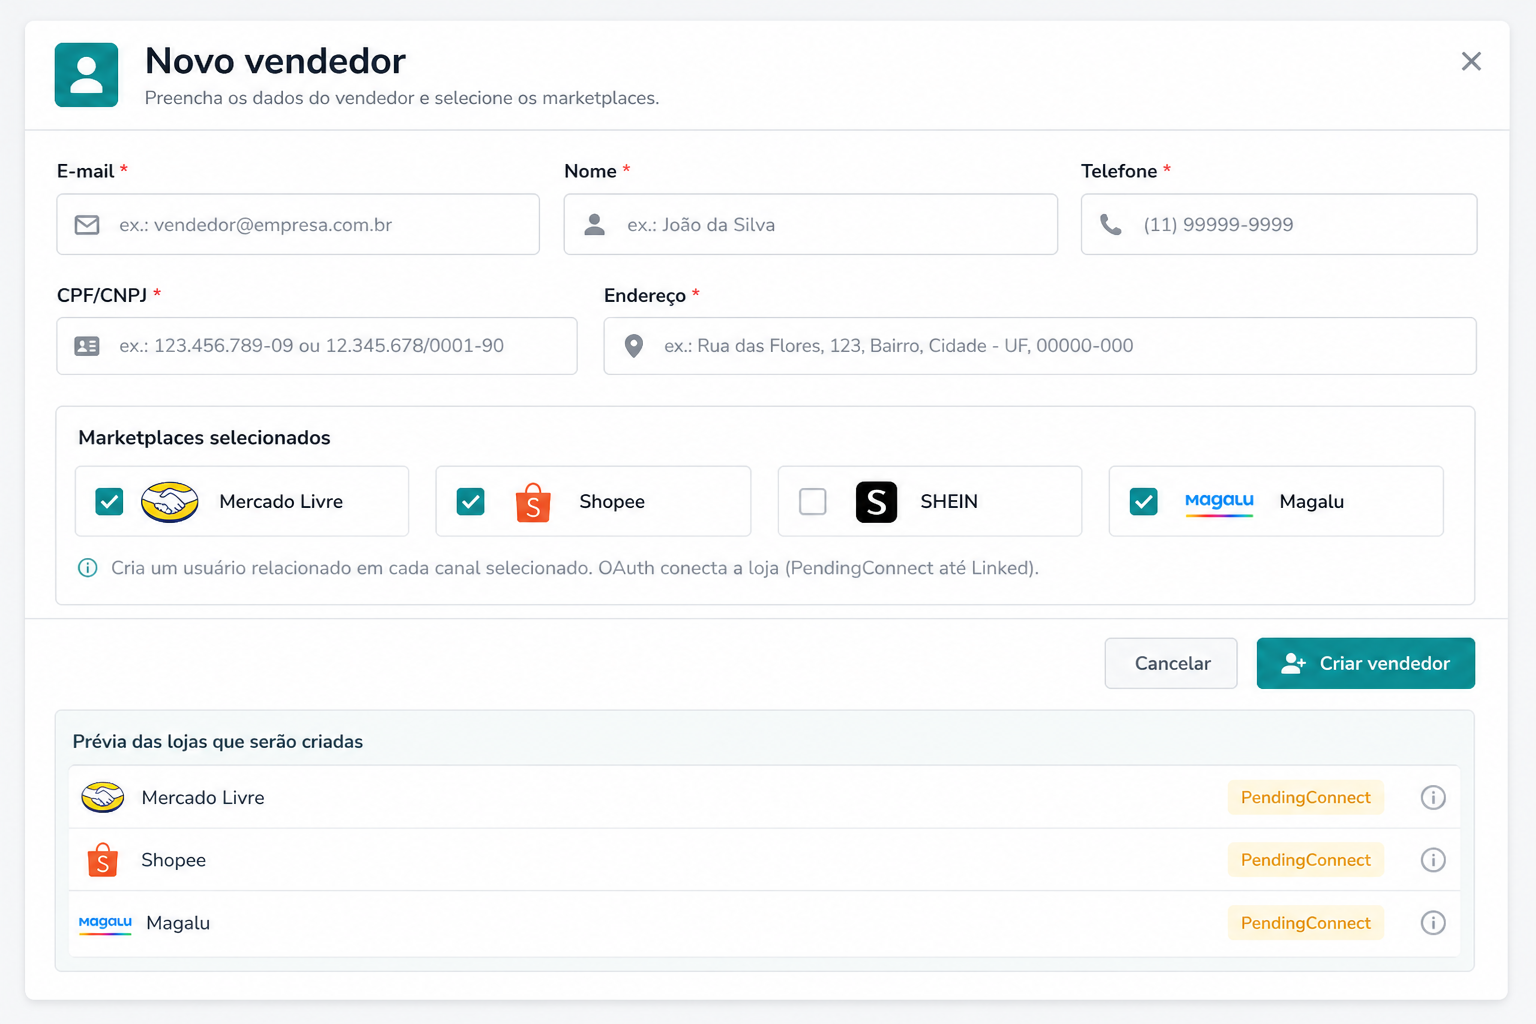
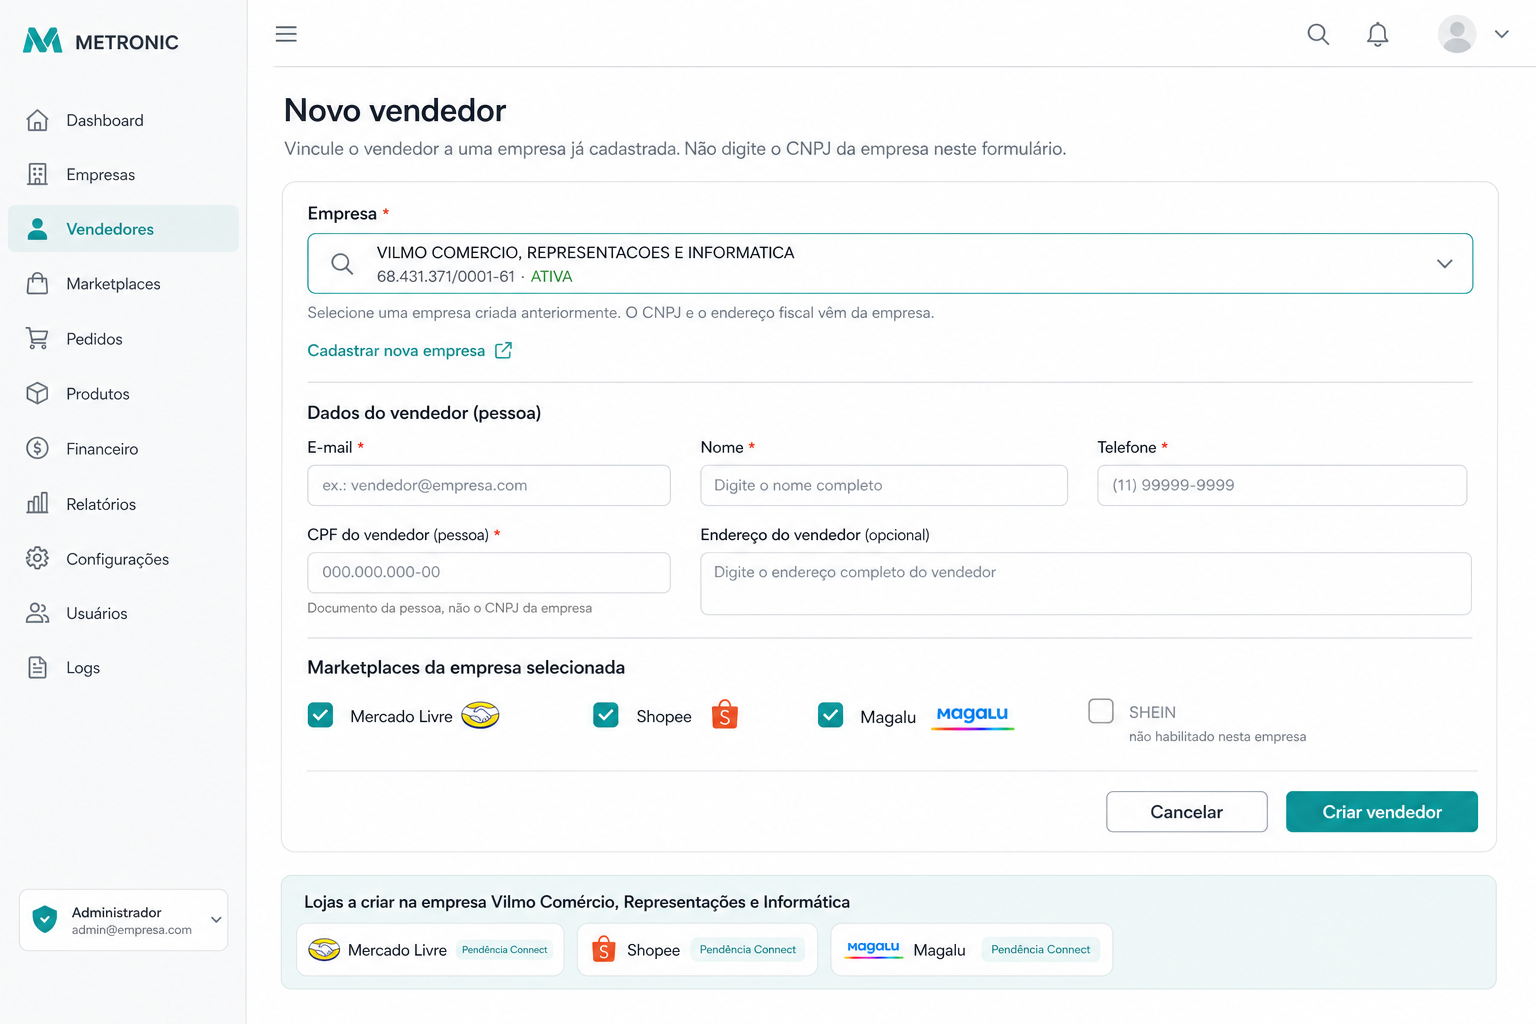
docs: vendor form selects an existing company, not a typed CNPJ
Admin Novo vendedor starts with a company picker (fantasia + CNPJ).
Company users see that company locked. Marketplaces load from the chosen tenant.

diff --git a/MD/USER_STORIES.md b/MD/USER_STORIES.md
@@ -279,12 +279,26 @@ Members datatable + form: company picker, profile = Empresa, marketplace checkbo
 ## US-10 — Admin creates a vendor user and related marketplace users
 
 **As** admin  
-**I want** to create a vendor for a **selected company** and, on **selected marketplaces**, a related user/shop for that vendor  
-**So that** ads and sales on those channels attach to that vendor, not to a shared company shop.
+**I want** to **select a company that already exists** and then create a vendor **linked to that company**, with shops on the marketplaces that company already enabled  
+**So that** I never re-type the company's CNPJ or address on the vendor form.
+
+The vendor does **not** own the CNPJ. The company (US-03) already has razão social, fantasia, CNPJ, address, A1. Creating a vendor only **chooses** that row.
+
+### UI (admin) — company first
+
+1. Required control **Empresa** — searchable select of companies already in the database (`GET /companies`). Each option shows **nome fantasia**, **CNPJ formatted**, status (Ativa/Rascunho).
+2. Typing a CNPJ in a free-text box is **wrong**. There is no “CNPJ da empresa” input on this screen.
+3. If the list is empty: disable submit and show **Cadastrar nova empresa** (US-03). You cannot create a vendor without a company.
+4. If the header company switcher already has a company: pre-select it; admin may change it.
+5. After a company is selected: load **that** company’s enabled marketplaces and show only those checkboxes. Codes not enabled are hidden or disabled (“não habilitado nesta empresa”).
+6. Vendor **person** fields: e-mail, nome, telefone, optional **CPF/CNPJ da pessoa** (seller document — may differ from the company CNPJ), optional address. Label must say **do vendedor**, not da empresa.
+7. Submit: `POST /companies/{companyId}/vendors` where `{companyId}` is the **selected** company’s id (never parsed from a typed CNPJ).
+
+Company-user variant: [US-11](#us-11--company-user-creates-vendors-and-checks-their-sales) — same form, **Empresa** is read-only (their membership). No picker of other CNPJs.
 
 Marketplaces do **not** let us “sign up a seller” with a silent API in production (ML/Shopee/SHEIN/Magalu require the human OAuth / shop authorize). “Create a related user on the marketplace” means:
 
-1. Create the Vilmo vendor.
+1. Create the Vilmo vendor **under the selected `companyId`**.
 2. Create a **subaccount row** per selected code (`user_detail_marketplace`).
 3. Open the official **connect** flow so the remote seller/shop user is **linked** (store `SellerId` / `ShopId` / tokens on that row).
 4. Optional: Mercado Livre **test users** in sandbox via a seed operation binding — never against production CNPJ.
@@ -293,18 +307,20 @@ Marketplaces do **not** let us “sign up a seller” with a silent API in produ
 
 `POST /companies/{companyId}/vendors` + `Idempotency-Key`
 
+`{companyId}` **must already exist**. Unknown id → `404`. Admin may pick any company. Company user: only their membership (US-11).
+
 ```
 {
   "email", "name", "password" | "invite": true,
   "detail": { "legalName", "documentType", "document", "phone",
-              "address": { ... CEP 8 digits } },
-  "marketplaceCodes": ["MercadoLivre", "Magalu"]   // selected; subset of company-enabled
+              "address": { ... CEP 8 digits } },   // vendor person, not company
+  "marketplaceCodes": ["MercadoLivre", "Magalu"]   // subset of the selected company's enabled codes
 }
 ```
 
-Empty `marketplaceCodes` → `400 MustSelectMarketplaces` (admin must choose; do not silently attach all unless they send `"marketplaceCodes": "*"` meaning all enabled).
+Empty `marketplaceCodes` → `400 MustSelectMarketplaces` (or `"*"` for all enabled on **that** company).
 
-Company must exist and be selected. Codes not enabled on the company → `400`.
+Codes not enabled on the **selected** company → `400`. Do not offer them in the UI.
 
 ### Side effects
 
@@ -340,11 +356,12 @@ Until `Linked`, that vendor cannot publish to that code; sales webhooks for an u
 - Company (and admin) see this vendor under the CNPJ and **all of his sales** once they exist.
 - Second POST with same idempotency key does not create a second Vilmo user or extra subaccounts.
 - Adding a marketplace later: `PUT .../vendors/{id}/marketplaces/{code}` creates the missing subaccount + connect URL (same uniqueness).
-- Document (CPF/CNPJ) of the vendor may differ from the company CNPJ. NF-e **emitente** remains the **company** CNPJ (US-06).
+- Document (CPF/CNPJ) of the **vendor person** may differ from the **selected company** CNPJ. NF-e **emitente** remains the **company** CNPJ (US-06).
+- UI never asks for the company CNPJ as a text field. Selecting another company changes the marketplace checkbox set.
 
 ### UI
 
-Create vendor: members form + marketplace checkboxes + “Conectar loja” per code (`PendingConnect` / `Linked` / `Error`). Vendor detail: `users_detail` + per-channel status.
+First control: **Empresa** select (admin) or locked company (company user). Then vendor person fields. Then marketplace checkboxes **of that company**. Connect per code (`PendingConnect` / `Linked` / `Error`).
 
 ---
 
@@ -358,7 +375,7 @@ Create vendor: members form + marketplace checkboxes + “Conectar loja” per c
 
 Same body and side effects as [US-10](#us-10--admin-creates-a-vendor-user-and-related-marketplace-users), except:
 
-- `companyId` is **always** the active membership (ignore a body company id for another CNPJ → `403`).
+- `companyId` is **always** the active membership. The **Empresa** field is visible but **read-only** (fantasia + CNPJ). No dropdown of other companies. Sending another company id → `403`.
 - `marketplaceCodes` ⊂ this company’s enabled codes.
 - Cannot create a vendor on another company.
 - Cannot create a company user or a platform admin.

diff --git a/MD/WIREFRAMES.md b/MD/WIREFRAMES.md
@@ -112,18 +112,26 @@ Traffic lights on the right stay gray until each block is complete. **Salvar ras
 
 - Badge **Empresa**. No Empresas catalog, no creating other CNPJs.
 - Sales table includes a **Vendedor** column (Ana, Carlos, …) — this is how “check all his sales” is visible.
-- **Novo vendedor** → same form as admin vendor create, company id forced.
+- **Novo vendedor** → form with **Empresa locked** to this CNPJ (US-11). Admin uses a **company select** instead (US-10).
 
 ---
 
-## 5. Novo vendedor (admin or company)
+## 5. Novo vendedor — select an existing company
 
 ![Novo vendedor](./wireframes/wf_05_create_vendor.png)
 
-- Selected marketplaces only (empty list = error, or `*` for all enabled).
+The old mockup looked like you typed a CNPJ to “be” the company. That is wrong.
+
+| Role | Empresa control |
+| --- | --- |
+| **Admin** | Required **select** of companies already created (fantasia + CNPJ). Search by name or CNPJ. Cannot invent a CNPJ here. Empty list → link to Nova empresa. |
+| **Company** | Same layout, Empresa **read-only** (their CNPJ). |
+
+Then: vendor person (e-mail, nome, telefone, optional CPF **da pessoa**). Then marketplaces **of the selected company** only.
+
+- Company CNPJ / razão / A1 / fiscal address are **not** fields on this form.
 - Each checked code creates `user_detail_marketplace` with **PendingConnect**.
-- **Conectar loja** runs official OAuth; then **Linked**.
-- Company user: checkboxes limited to **this** CNPJ’s enabled channels.
+- **Conectar loja** → OAuth → **Linked**.
 
 **Novo usuário empresa** (admin only) is the same marketplace checkbox idea, but rows go to `user_company_marketplace` (company apps, not a personal shop).
 

diff --git a/MD/UI.md b/MD/UI.md
@@ -48,7 +48,7 @@ Do not serve the 10GB-class template tree from Docker. `vilmo-web` is a small st
 | Create company user | members form + integrations checkboxes | Admin US-09. Codes must be company-enabled. |
 | Company switcher | header / teams dropdown in demo1 | Sets `X-Company-Id`. Admin: all CNPJs. |
 | Vendors list | `demo1/account/members/team-members-datatable.html` | Company/Admin. Link status per channel. Hidden from Vendor. |
-| Create vendor | members form + marketplace checkboxes + Connect | Admin US-10 or Company US-11. Selected codes → `PendingConnect` until OAuth. |
+| Create vendor | members form; **Empresa select** (admin) or locked company (company user); marketplace checkboxes of **that** company | US-10 / US-11. Never a free-text company CNPJ. |
 | Vendor detail (common) | `demo1/account/home/user-profile.html` + `settings-sidebar.html` | `users_detail`. Vendor: own profile only. |
 | Vendor marketplace subaccount | `demo1/account/api-keys.html` + settings form | `user_detail_marketplace`. Secrets masked. Connect if pending. |
 | Roles / permissions | `demo1/account/members/roles.html`, `permissions-toggle.html` | Admin / Company / Vendor. |

diff --git a/MD/PLAN.md b/MD/PLAN.md
@@ -287,7 +287,7 @@ Many companies. Each company has many users with profile **`Vendor`**. Each mark
 
 **Create vendor (must be idempotent per company; US-10 admin, US-11 company):**
 
-Admin or company user sends **selected** `marketplaceCodes` (subset of company-enabled codes, or `"*"` for all enabled). Empty list is `400`.
+Admin opens **Novo vendedor**, **selects an existing company** (searchable list: fantasia + CNPJ — not a CNPJ text field), then selected `marketplaceCodes` (subset of **that** company's enabled codes, or `"*"` for all enabled). Empty company or empty list is `400`. Company user skips the picker; company is the logged-in CNPJ.
 
 ```
 POST /companies/{companyId}/vendors  + Idempotency-Key
